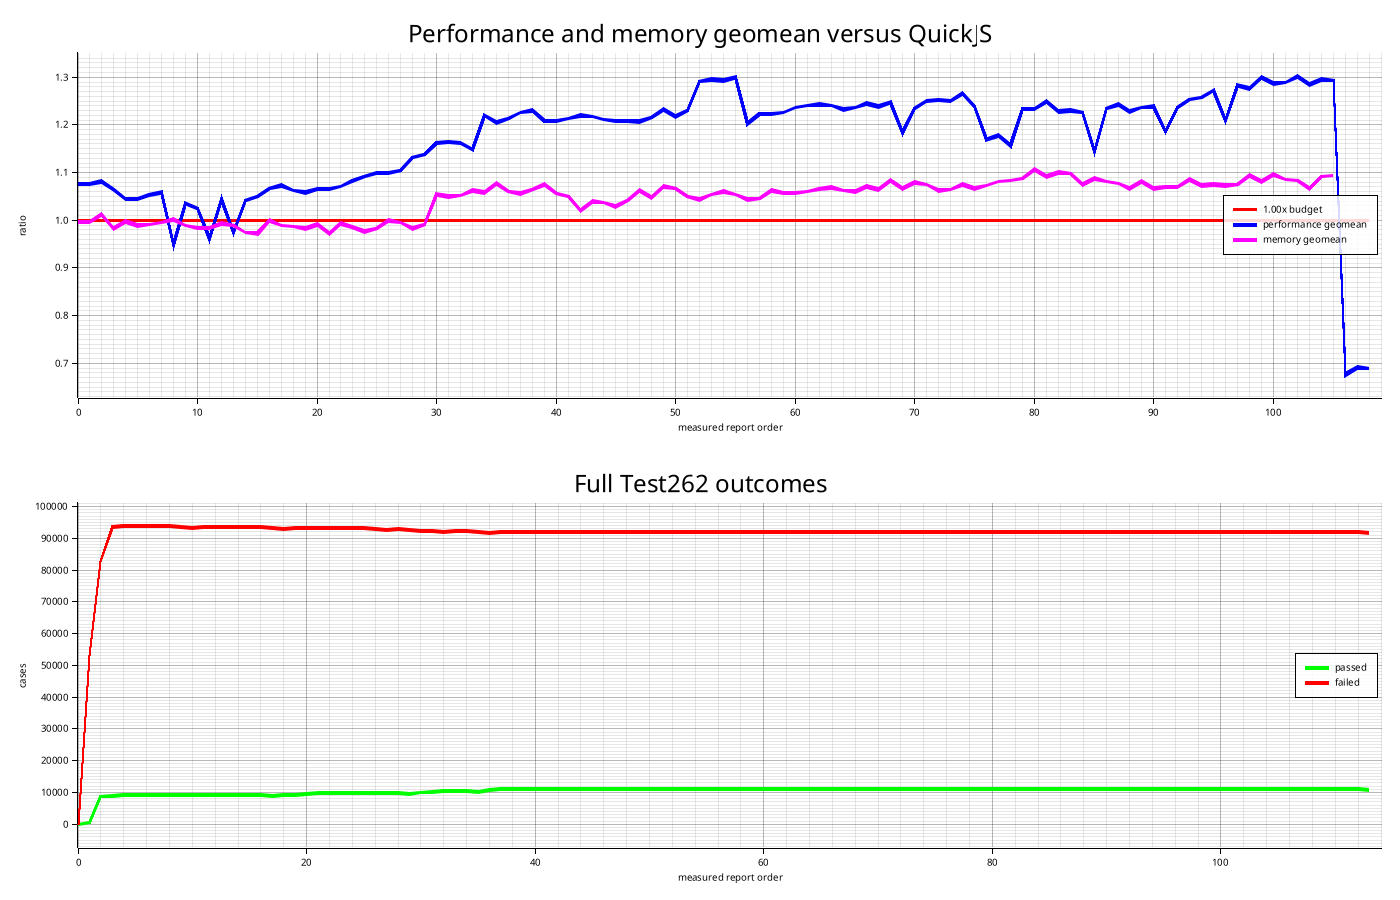
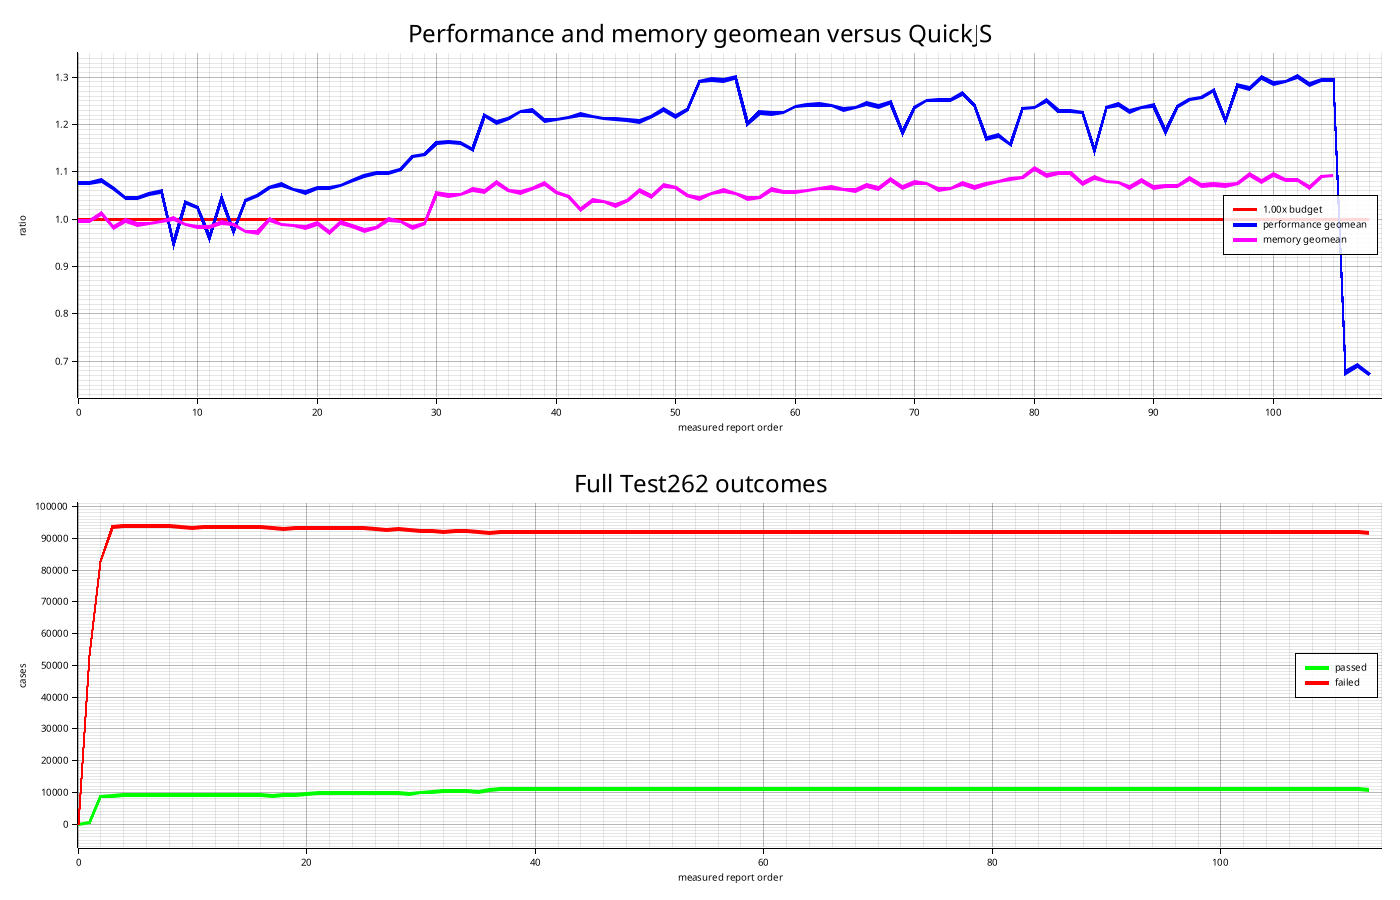
Refresh script-local string constant report

Changed region(s): [[0.0307, 0.0933, 0.9829, 0.4356]]

diff --git a/reports/benchmark-rollup.md b/reports/benchmark-rollup.md
@@ -16,9 +16,9 @@ Artifacts:
 
 Latest report:
 
-- `rsqjs-test-report-20260706T143518Z.md`
-- Task: rsqjs-test-report-20260706T143518Z.md
-- Performance: 0.69x (34/63 >1.00x)
+- `rsqjs-test-report-20260706T144425Z.md`
+- Task: Script-local string literal constants tranche: Move parser-known string and template literals out of owned `Value::String` AST nodes and into script-local constants before broader compact-value work.
+- Performance: 0.67x (35/63 >1.00x)
 - Memory: - (0/63 >1.00x)
 - Full Test262: 10872 passed / 91706 failed (10.60%)
 
@@ -191,4 +191,4 @@ Latest report:
 | `20260706T134253Z` `2a2e13a` Global var slot order tranche: Align compiled global `GlobalSlot` assignment with the runtime `var` hoist phase before broader direct binding operands. | 1.29x (47/63 >1.00x) | 1.09x (58/63 >1.00x) | 10872 passed / 91706 failed (10.60%) |
 | `20260706T135425Z` `c6353f8` Cached binding before atom lookup tranche: Move repeated proven binding hits closer to bytecode-ready direct slot operands by avoiding static-name atom lookup when a cached runtime location is already valid. | 0.68x (36/63 >1.00x) | - (0/63 >1.00x) | 10872 passed / 91706 failed (10.60%) |
 | `20260706T141931Z` `21b3f7e` Computed property access-site cache tranche: Extend checked per-occurrence property cache slots from static member reads and writes into non-literal computed property reads and writes without changing array index semantics. | 0.69x (38/63 >1.00x) | - (0/63 >1.00x) | 10872 passed / 91706 failed (10.60%) |
-| `20260706T143518Z` rsqjs-test-report-20260706T143518Z.md | 0.69x (34/63 >1.00x) | - (0/63 >1.00x) | 10872 passed / 91706 failed (10.60%) |
+| `20260706T144425Z` Script-local string literal constants tranche: Move parser-known string and template literals out of owned `Value::String` AST nodes and into script-local constants before broader compact-value work. | 0.67x (35/63 >1.00x) | - (0/63 >1.00x) | 10872 passed / 91706 failed (10.60%) |

diff --git a/docs/project-plan.md b/docs/project-plan.md
@@ -473,7 +473,7 @@ then choose one unchecked row that fits the latest report evidence.
 
 | Done | Status | Task | Workstream | Purpose | Current notes |
 | --- | --- | --- | --- | --- | --- |
-| [x] | Done | Script-local string literal constants tranche | Runtime architecture / memory | Move parser-known string and template literals out of owned `Value::String` AST nodes and into script-local constants before broader compact-value work. | Adds `StaticStringId` and `StaticString`, a parser-owned `StaticStringTable`, and `CompiledScriptUsage::static_string_count()`. `TokenKind::String` now parses to `Expr::StringLiteral`, runtime evaluation materializes it directly through `Context::heap_string_value(&str)`, and side-effect-free computed keys such as `holder["camera"]` still normalize to static property operands without creating a runtime heap string for the property name. Direct coverage in `string_heap_smoke.rs` verifies repeated compiled string literals are counted as two script-local constants for `"front"` and `"camera"`, materialize only `"front"` into the VM string heap, and do not grow heap usage on repeated compiled evaluation. The root engine crate version was bumped to `0.2.1`; the runner crate was unchanged. Validation passed with `cargo fmt --all -- --check`, `cargo check --all-targets`, targeted string heap tests, `cargo clippy --all-targets --all-features -- -D warnings`, `cargo test --quiet`, and `scripts/test-all.sh`. Report `rsqjs-test-report-20260706T143518Z.md` keeps engine fixtures at 68/68, active Test262 at 66/66, full Test262 at 10872/102578, and QuickJS differential at 64/64. Benchmarks measured 63 rows with 34 latency exceptions and no memory-budget exceptions in the current in-process mode; aggregate performance is `0.69x`, memory comparison is unavailable in this benchmark mode. Remaining compact-value work includes context-free diagnostic/property fallbacks, other externalized string producers, handle compaction, Vec-backed heaps/free lists, boxed immutable constants, and eventually replacing AST evaluation with bytecode constants behind `CompiledScript`. |
+| [x] | Done | Script-local string literal constants tranche | Runtime architecture / memory | Move parser-known string and template literals out of owned `Value::String` AST nodes and into script-local constants before broader compact-value work. | Adds `StaticStringId` and `StaticString`, a parser-owned `StaticStringTable`, and `CompiledScriptUsage::static_string_count()`. `TokenKind::String` now parses to `Expr::StringLiteral`, runtime evaluation materializes it directly through `Context::heap_string_value(&str)`, and side-effect-free computed keys such as `holder["camera"]` still normalize to static property operands without creating a runtime heap string for the property name. Direct coverage in `string_heap_smoke.rs` verifies repeated compiled string literals are counted as two script-local constants for `"front"` and `"camera"`, materialize only `"front"` into the VM string heap, and do not grow heap usage on repeated compiled evaluation. The root engine crate version was bumped to `0.2.1`; the runner crate was unchanged. Validation passed with `cargo fmt --all -- --check`, `cargo check --all-targets`, targeted string heap tests, `cargo clippy --all-targets --all-features -- -D warnings`, `cargo test --quiet`, and `scripts/test-all.sh`. Report `rsqjs-test-report-20260706T144425Z.md` keeps engine fixtures at 68/68, active Test262 at 66/66, full Test262 at 10872/102578, and QuickJS differential at 64/64. Benchmarks measured 63 rows with 35 latency exceptions and no memory-budget exceptions in the current in-process mode; aggregate performance is `0.67x`, memory comparison is unavailable in this benchmark mode. Remaining compact-value work includes context-free diagnostic/property fallbacks, other externalized string producers, handle compaction, Vec-backed heaps/free lists, boxed immutable constants, and eventually replacing AST evaluation with bytecode constants behind `CompiledScript`. |
 | [x] | Done | Computed property access-site cache tranche | Runtime architecture / performance | Extend checked per-occurrence property cache slots from static member reads and writes into non-literal computed property reads and writes without changing array index semantics. | `Expr::ComputedMember` and `Expr::ComputedPropertyAssignment` now carry `StaticPropertyAccessId`, so dynamic bracket reads, writes, compound assignments, updates, computed method calls, and computed `for...in` assignment targets can reuse the same guarded cache machinery as static property sites. Cacheable lookup snapshots now remember the requested `PropertyKey`, so one dynamic site such as `holder[key]` can safely see different keys across calls or loop iterations; computed object caches also bypass arrays to keep numeric indices on `ArrayStorage`. The branch removes the old string-only generic dynamic get/set helpers, routes dynamic property paths through `get_cached_dynamic_property_value` and `set_cached_dynamic_property_value`, and adds regression coverage for repeated compiled computed operations, method-call `this` binding, same-site different keys, and array index semantics. The root engine crate version was bumped to `0.1.1`; the runner crate was unchanged. Validation passed with `cargo fmt --all -- --check`, targeted dynamic/static/array/binding cache tests, `cargo check --all-targets`, `cargo clippy --all-targets --all-features -- -D warnings`, `cargo test --quiet`, `git diff --check`, and `scripts/test-all.sh`. Report `rsqjs-test-report-20260706T141931Z.md` keeps engine fixtures at 68/68, active Test262 at 66/66, full Test262 at 10872/102578, and QuickJS differential at 64/64. Benchmarks measured 63 rows with 38 latency exceptions and no memory-budget exceptions in the in-process mode; aggregate performance is `0.69x`, memory comparison is unavailable in the current benchmark mode, and `computed_properties` is within latency budget at `0.24x`. Remaining cache work includes descriptor-sensitive writes, broader function/native dispatch, deletes where profitable, bytecode property operands, and moving new runtime logic out of `runtime.rs` before it exceeds the file-size limit. |
 | [x] | Done | Cached binding before atom lookup tranche | Runtime architecture / performance | Move repeated proven binding hits closer to bytecode-ready direct slot operands by avoiding static-name atom lookup when a cached runtime location is already valid. | `Context::get_binding_static` now tries the per-occurrence static binding location cache before consulting the static-name atom cache. Exact compiled local, upvalue, and proven exact-global cache hits can therefore return a checked `BindingCell` through the saved `BindingLocation` first, while stale or missing cache entries still fall back to atom lookup, compiled operand resolution, ordinary scope search, and guarded builtin/global behavior. Validation passed with `cargo fmt --all`, `cargo check --all-targets`, targeted binding/block/static-name smoke tests, `cargo clippy --all-targets --all-features -- -D warnings`, `cargo test`, `git diff --check`, and `scripts/test-all.sh`. Report `rsqjs-test-report-20260706T135425Z.md` keeps engine fixtures at 68/68, active Test262 at 66/66, full Test262 at 10872/102578, and QuickJS differential at 64/64. Benchmarks measured 63 rows with 36 latency exceptions; aggregate performance is `0.68x` under the in-process QuickJS methodology and memory comparison is unavailable for the current benchmark mode. Remaining slot work is a true bytecode binding operand representation and narrower fallback lookup for dynamic or Annex B-sensitive cases. |
 | [x] | Done | Global var slot order tranche | Runtime architecture / performance | Align compiled global `GlobalSlot` assignment with the runtime `var` hoist phase before broader direct binding operands. | `BindingLayout::collect_scope_declarations` now collects hoisted `var` declarations for the current var-scope before direct declarations, so later block-contained `var` declarations get the same early slots that runtime hoisting inserts before top-level lexical globals. This reduces the source-order/runtime-order mismatch that forced exact global binding caches to fall back for otherwise proven top-level globals. Direct coverage in `binding_layout_smoke.rs` verifies a compiled script with early `let` globals and a later block-hoisted `var` preserves all global values and slot counts. Validation passed with `cargo fmt --all -- --check`, `cargo check --all-targets`, targeted binding/block/static-name smoke tests, `cargo clippy --all-targets --all-features -- -D warnings`, `cargo test`, and `scripts/test-all.sh`. Report `rsqjs-test-report-20260706T134253Z.md` keeps engine fixtures at 68/68, active Test262 at 66/66, full Test262 at 10872/102578, and QuickJS differential at 64/64. Benchmarks measured 63 rows with 47 latency and 58 memory exceptions; aggregate performance is `1.29x` and memory is `1.09x`. Remaining slot work is true bytecode-ready direct operands for read/write/eval paths, plus tighter handling for dynamic or Annex B shadowing cases where guarded fallback remains correct. |